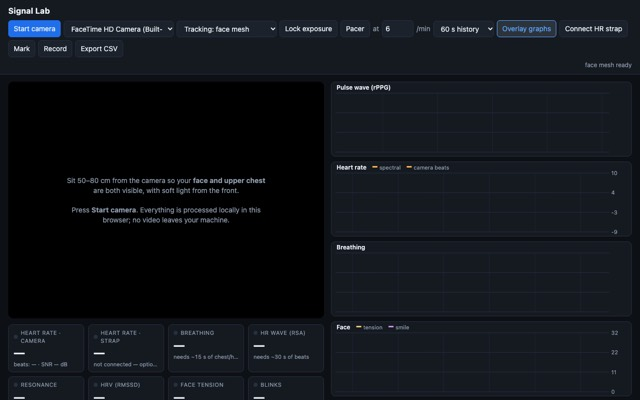
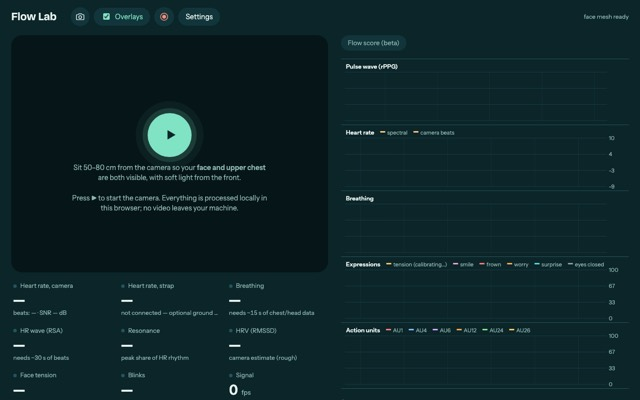
Shelf: fresh Flow Lab screenshot

diff --git a/index.html b/index.html
@@ -58,6 +58,7 @@ const USER = 'wakeupsilver';
 const HIDE = ['wakeupsilver.github.io'];
 // Optional nicer names. Card pictures come from shots/<repo>.jpg. Repos not listed here still show up automatically.
 const EXTRA = {
+  'sips':                      { title: 'Sips' },
   'flow-lab':                  { title: 'Flow Lab' },
   'body-rave':                 { title: 'Body Rave' },
   'disco-scratch':             { title: 'Disco Scratch' },
@@ -78,6 +79,7 @@ const EXTRA = {
 };
 // Used only if GitHub can't be reached (offline, rate limit).
 const FALLBACK = [
+  ['sips', true, 'A breathing game: sips, box breathing and three Wim Hof rounds, played with your own breath.'],
   ['body-rave', true, 'Body Rave: your heart, face, hands and bones are the DJ. A webcam rave that turns your body into music and visuals. Nothing leaves your browser.'],
   ['disco-scratch', true, 'Disco Scratch: a neon-disco block-coding editor that runs inside Scratch, with nesting blocks, threads, custom blocks and 12 extensions.'],
   ['recursive-scratch', true, 'Scratch, inside Scratch, inside Scratch: a block editor and VM built from Scratch blocks, running its own mini Scratch.'],
